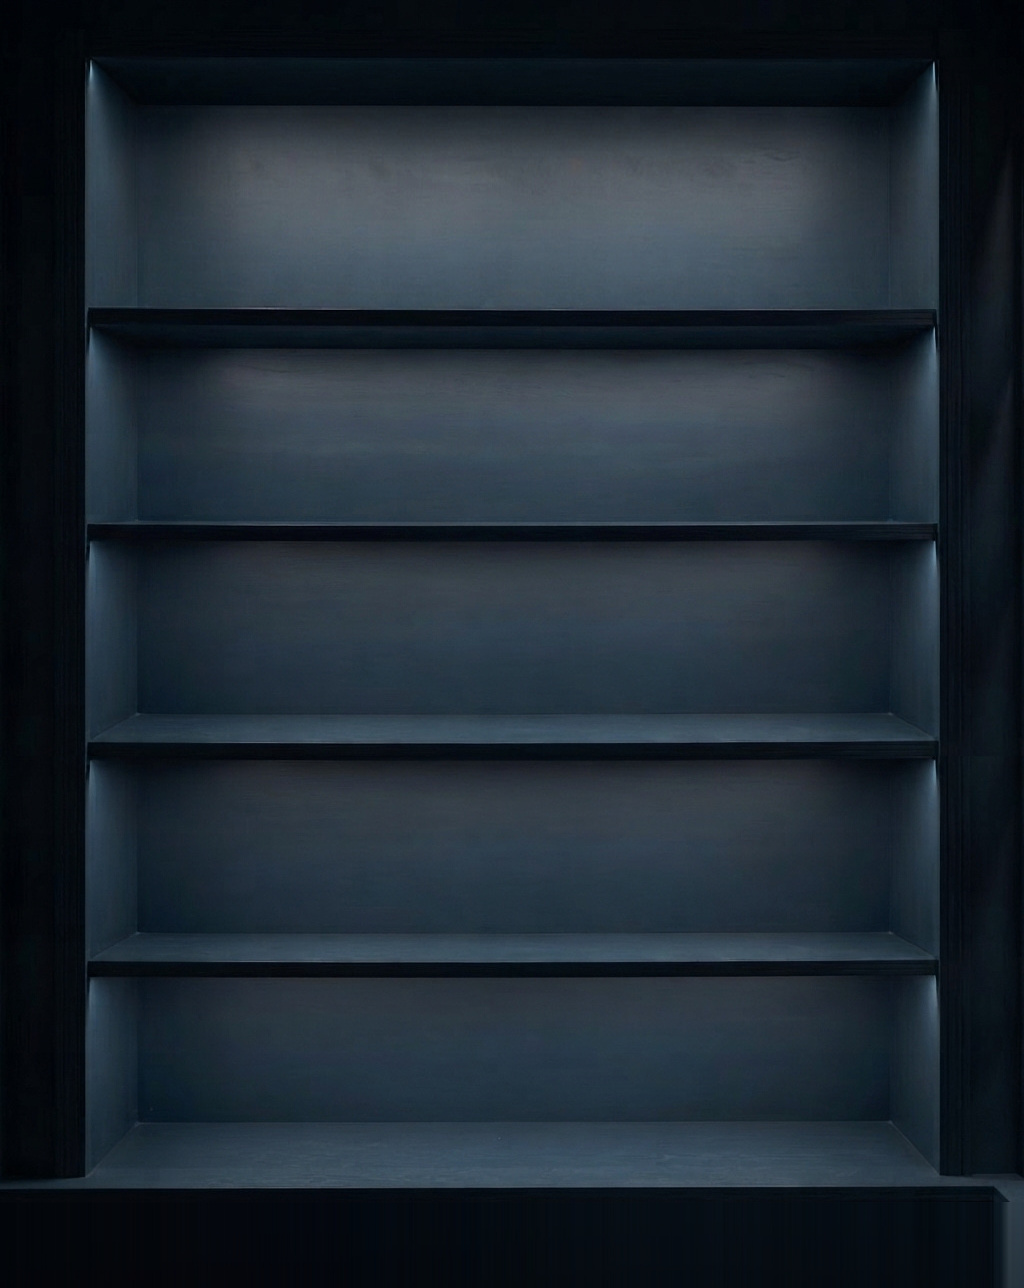
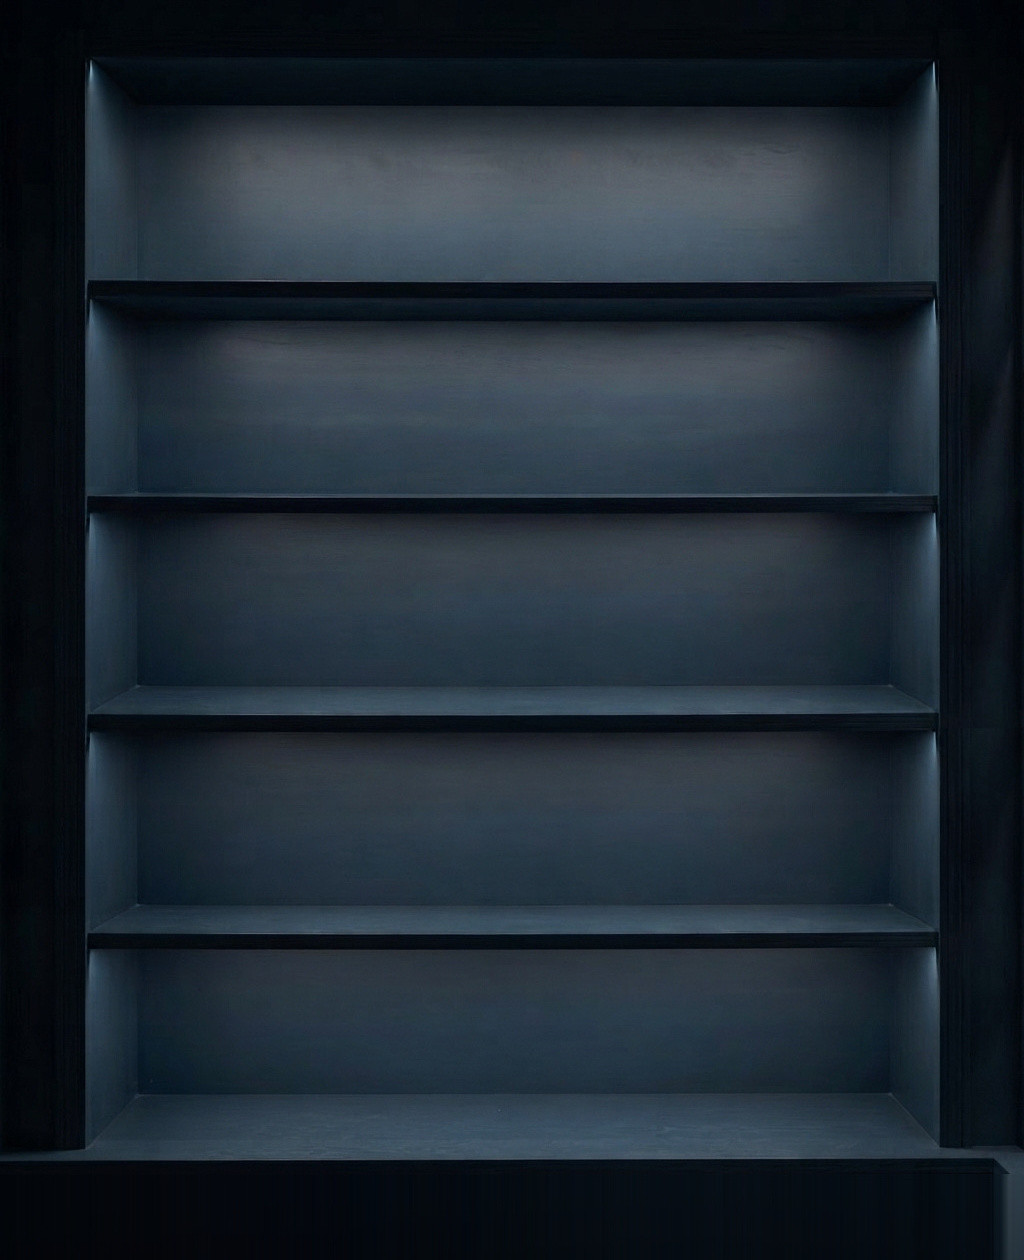
bring the top of the case down onto the first shelf
Her call, looking at it. The top compartment's lit back panel is
compressed from 204 to 176, the rail above and the board below carried
across rigid, so nothing else in the joinery moves. Case is 1260 and the
whole measurement table shifts with it.

That leaves the openings at 176, 176, 202, 202, 211 -- the top now matches
tactilia, which a shadow cast under the first board holds to the same 176.

Claude-Session: https://claude.ai/code/session_01FZLRpZBybpYSYBaQU5zBZo

diff --git a/index.html b/index.html
@@ -102,8 +102,8 @@
   body.tray #back{ display:none; }   /* the plate at the foot of the tray is the way back */
 
   #frame{ position:relative; overflow:hidden; flex:none;
-    --h: min(95vh, calc(96vw * 1.257813), 1288px);
-    height:var(--h); width:calc(var(--h) / 1.257813); }
+    --h: min(95vh, calc(96vw * 1.230469), 1260px);
+    height:var(--h); width:calc(var(--h) / 1.230469); }
   /* Sizes here are fractions of the case's own height, so the lettering keeps its
      proportion to the furniture at every screen size. They cannot be written as
      "unit x px" -- --h is a length, and a length times a length is not a size, so
@@ -252,7 +252,7 @@
   // percentages, which had to be retyped by hand every time the picture changed.
   // ---------------------------------------------------------------------------
   var GEO = {
-    W:1024, H:1288,
+    W:1024, H:1260,
     interior:{ left:85, right:939 },      // the opening between the two posts
     // The brass is laid on rather than photographed in, so these are the boxes the
     // cut-out plates are drawn into. The oval is 135 wide -- her call, shrunk twice
@@ -261,7 +261,7 @@
     // y 0..58 in the photograph, so the plate takes all 58 of it and its width
     // follows from the brass's own proportion.
     oval:{ x:436, y:0, w:152, h:58 },
-    disc:{ cx:512, cy:1250, d:42 },       // on the band of dark below the counter
+    disc:{ cx:512, cy:1222, d:42 },       // on the band of dark below the counter
     // Each plate was cut to the length of its own word, so the width is per shelf.
     // 26 tall on every one; the names are engraved at 13px of the photograph's own
     // scale, which is what those lengths were cut for.
@@ -283,29 +283,32 @@
     // the other four, which would have left its cards with visibly less air. Its
     // flat lit back panel was stretched to match -- the top frame above and the
     // board below carried across rigid, so no joinery moved. That took the
-    // photograph from 1238 to 1288 tall, and these figures with it. All five
-    // openings now run 198 to 210.
+    // photograph from 1238 to 1288 tall. Then her call, looking at it: the top of
+    // the unit was to come closer to the first board, so that compartment's lit
+    // panel was compressed 204 -> 176 and the case is 1260. It now matches
+    // tactilia, which a shadow under the first board holds to the same 176; the
+    // lower three stand at 202, 202 and 211.
     shelves:[
-      { name:'instrumenta', ceil:107, surf:310, railY:318.5, plateW:131.8,
+      { name:'instrumenta', ceil:107, surf:282, railY:290.5, plateW:131.8,
         pieces:[['candler','candler/index.html','candler/candle-card.png'],
                 ['conometer','conometer/index.html','conometer/conometer-card.png'],
                 ['galileo','galileo/index.html','galileo/galileo-card.png'],
                 ['windower','windower/index.html','windower/windower-card.png'],
                 ['storm','storm/index.html','storm/storm-card.png']] },
-      { name:'tactilia', ceil:327, surf:525, railY:533.5, plateW:104.0,
+      { name:'tactilia', ceil:299, surf:497, railY:505.5, plateW:104.0,
         pieces:[['warmler','warmler/index.html','warmler/warmler-card.png'],
                 ['roller','roller/index.html','roller/roller-card.png'],
                 ['kaleidoscope','kaleidoscope/index.html','kaleidoscope/kaleidoscope-card.png']] },
-      { name:'systema', ceil:542, surf:743, railY:752, plateW:110.1,
+      { name:'systema', ceil:514, surf:715, railY:724, plateW:110.1,
         pieces:[['musebox','musebox/index.html','musebox/musebox-card.png'],
                 ['gyre','gyre/index.html','gyre/gyre-card.png'],
                 ['chimes','chimes/index.html','chimes/chimes-card.png']] },
-      { name:'natura', ceil:761, surf:962, railY:969.5, plateW:99.9,
+      { name:'natura', ceil:733, surf:934, railY:941.5, plateW:99.9,
         pieces:[['birds','birds/index.html','birds/birds-card.png'],
                 ['fireflies','fireflies/index.html','fireflies/fireflies-card.png'],
                 ['moths','moths/index.html','moths/moths-card.png'],
                 ['ant','ant/index.html','ant/ant-card.png']] },
-      { name:'phenomena', ceil:977, surf:1187, railY:1194.5, plateW:129.2,
+      { name:'phenomena', ceil:949, surf:1159, railY:1166.5, plateW:129.2,
         pieces:[['lamp','lamp/index.html','lamp/lamp-card.png'],
                 ['rain','rain/index.html','rain/rain-card.png'],
                 ['bowl','bowl/index.html','bowl/bowl-card.png'],
